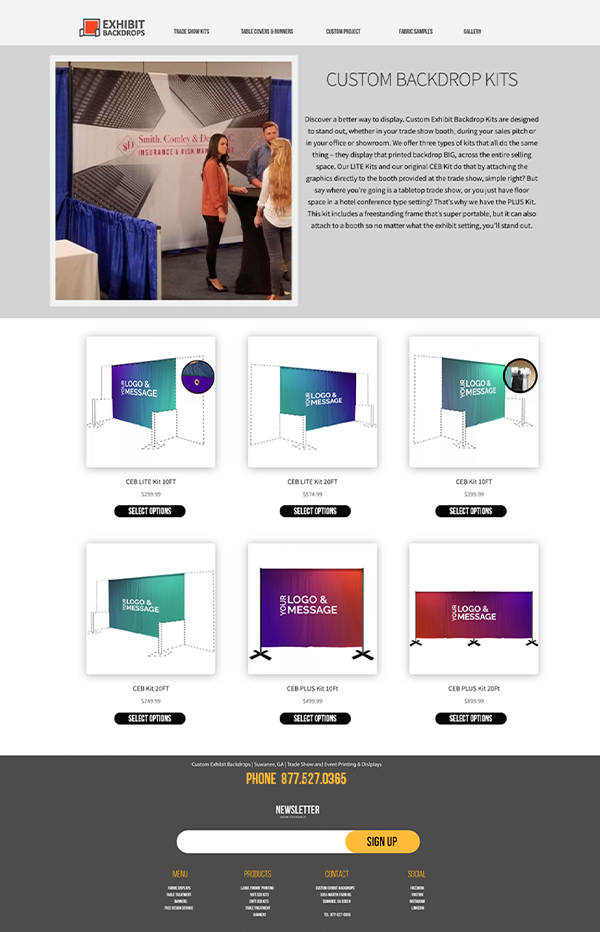
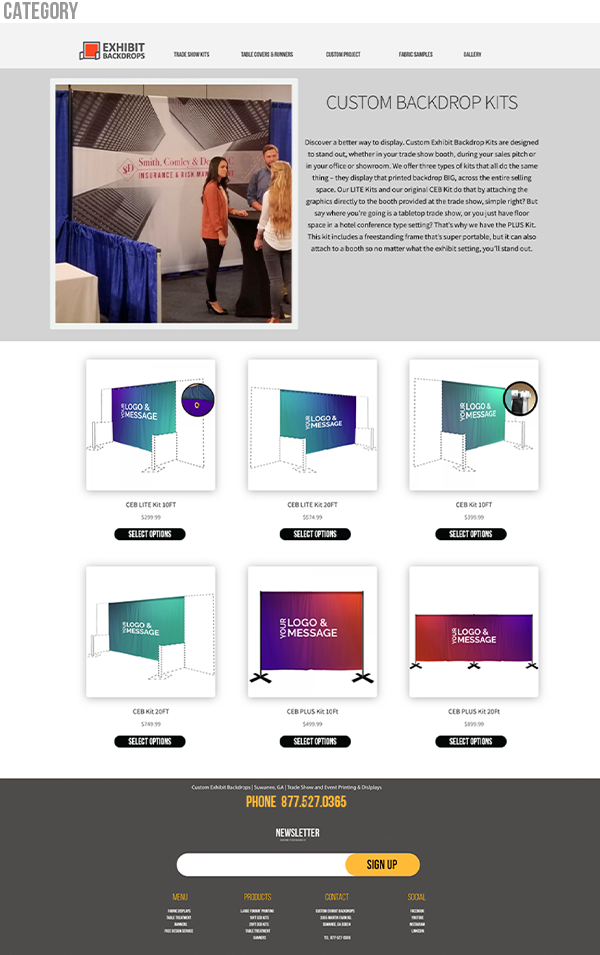
ceb
fin fin

Changed region(s): [[0.0, 0.0, 1.0, 0.9957]]

diff --git a/ceb.html b/ceb.html
@@ -70,13 +70,6 @@
         <li class="nav-item">
           <a class="nav-link js-scroll-trigger" href="#abtesting">Wireframes & Prototype</a>
         </li>
-        <li class="nav-item">
-          <a class="nav-link js-scroll-trigger" href="#next">Next Steps</a>
-        </li>
-
-        <!--<li class="nav-item">
-          <a class="nav-link js-scroll-trigger" href="#awards">Awards</a>
-        </li>-->
       </ul>
     </div>
   </nav>
@@ -477,7 +470,7 @@
     <section class="resume-section p-3 p-lg-5 d-flex align-items-center" id="abtesting">
       <div class="w-100">
         <h2 class="mb-5 title">Wireframes and prototypes</h2>
-        <p class="mb-5">We A/B tested two similer in layout but different in design execution versions. Version "B" scored higher. Users ware visualy pleased that the image of the backdrop had a realistic background.</p>
+        <p class="mb-5"></p>
 
         <div class="resume-item d-flex flex-column flex-md-row justify-content-between mb-5">
           <div class="row h-100 ">
@@ -486,12 +479,12 @@
       <img class="fit" src="img/ceb/webceb.png" alt="home"> 
       </div>
       <div class="col-sm">
-        <img class="fit" src="img/ceb/webceb2.png" alt="home"> 
+        <img class="fit" src="img/ceb/category.png" alt="home"> 
         </div>
         </div>
         </div>
         <div class="mb-5">
-          <h3 class="mb-0">Aftermath</h3>
+          <h3 class="mb-0">Results</h3>
           <p class="mb-5">After implamentation of our version "B" layout we notice, decline in bounce rates, increase in return visitorus and increase in sales as well as. </p>
           <div class="resume-item d-flex flex-column flex-md-row justify-content-between mb-5">
             <div class="row h-100 ">
@@ -506,9 +499,8 @@
            </ul>
             </div>
           
-              </div>
-              <div class="col-sm">
-              <img class="fit-45" src="img/ceb/mobi2.png" alt="onboroto">
+         
+              <img class="fit-45 space shadow outline" src="img/ceb/ezgif.com-video-to-gif.gif" alt="mobil gif">
 </div>
             </div>
   </div>
@@ -517,49 +509,7 @@
 
     <hr class="m-0">
 
-    <section class="resume-section p-3 p-lg-5 d-flex align-items-center" id="next">
-      <div class="w-100">
-        <h2 class="mb-5 title">Next Steps</h2>
-        <ul>
-          <li>Simplify product names and discriptions.</li>
-          <li>Design category pages.</li>
-      </div>
-    </section>
-    
-
-   <!-- <section class="resume-section p-3 p-lg-5 d-flex align-items-center" id="awards">
-      <div class="w-100">
-        <h2 class="mb-5 title">Certifications</h2>
-        <ul class="fa-ul mb-0">
-          <li>
-            <i class="fa-li fa fa-school text-warning"></i>
-            Insights of Innovation - IDEO U</li>
-          <li>
-            <i class="fa-li fa fa-school text-warning"></i>
-            Enterprice Design Thinking - IBM</li>
-          <li>
-            <i class="fa-li fa fa-trophy text-warning"></i>
-            1<sup>st</sup>
-            Place - University of Colorado Boulder - Emerging Tech Competition 2009</li>
-          <li>
-            <i class="fa-li fa fa-trophy text-warning"></i>
-            1<sup>st</sup>
-            Place - University of Colorado Boulder - Adobe Creative Jam 2008 (UI Design Category)</li>
-          <li>
-            <i class="fa-li fa fa-trophy text-warning"></i>
-            2<sup>nd</sup>
-            Place - University of Colorado Boulder - Emerging Tech Competition 2008</li>
-          <li>
-            <i class="fa-li fa fa-trophy text-warning"></i>
-            1<sup>st</sup>
-            Place - James Buchanan High School - Hackathon 2006</li>
-          <li>
-            <i class="fa-li fa fa-trophy text-warning"></i>
-            3<sup>rd</sup>
-            Place - James Buchanan High School - Hackathon 2005</li>
-        </ul>
-      </div>
-    </section> -->
+ 
 
   </div>
 
